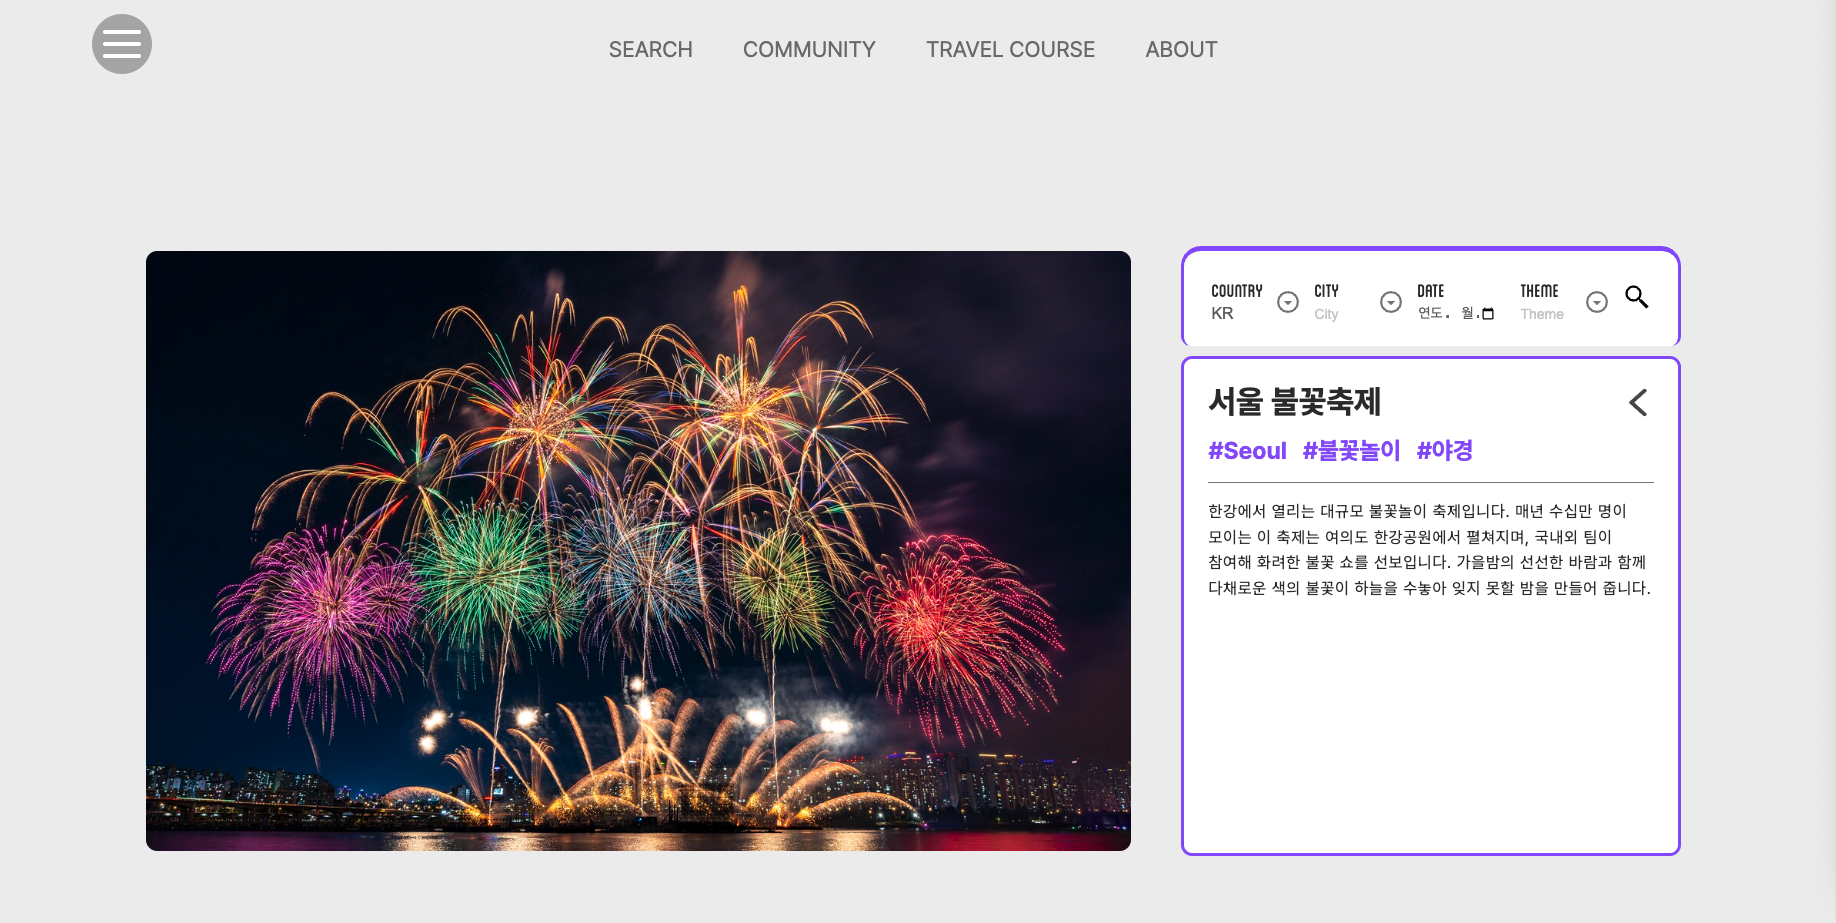
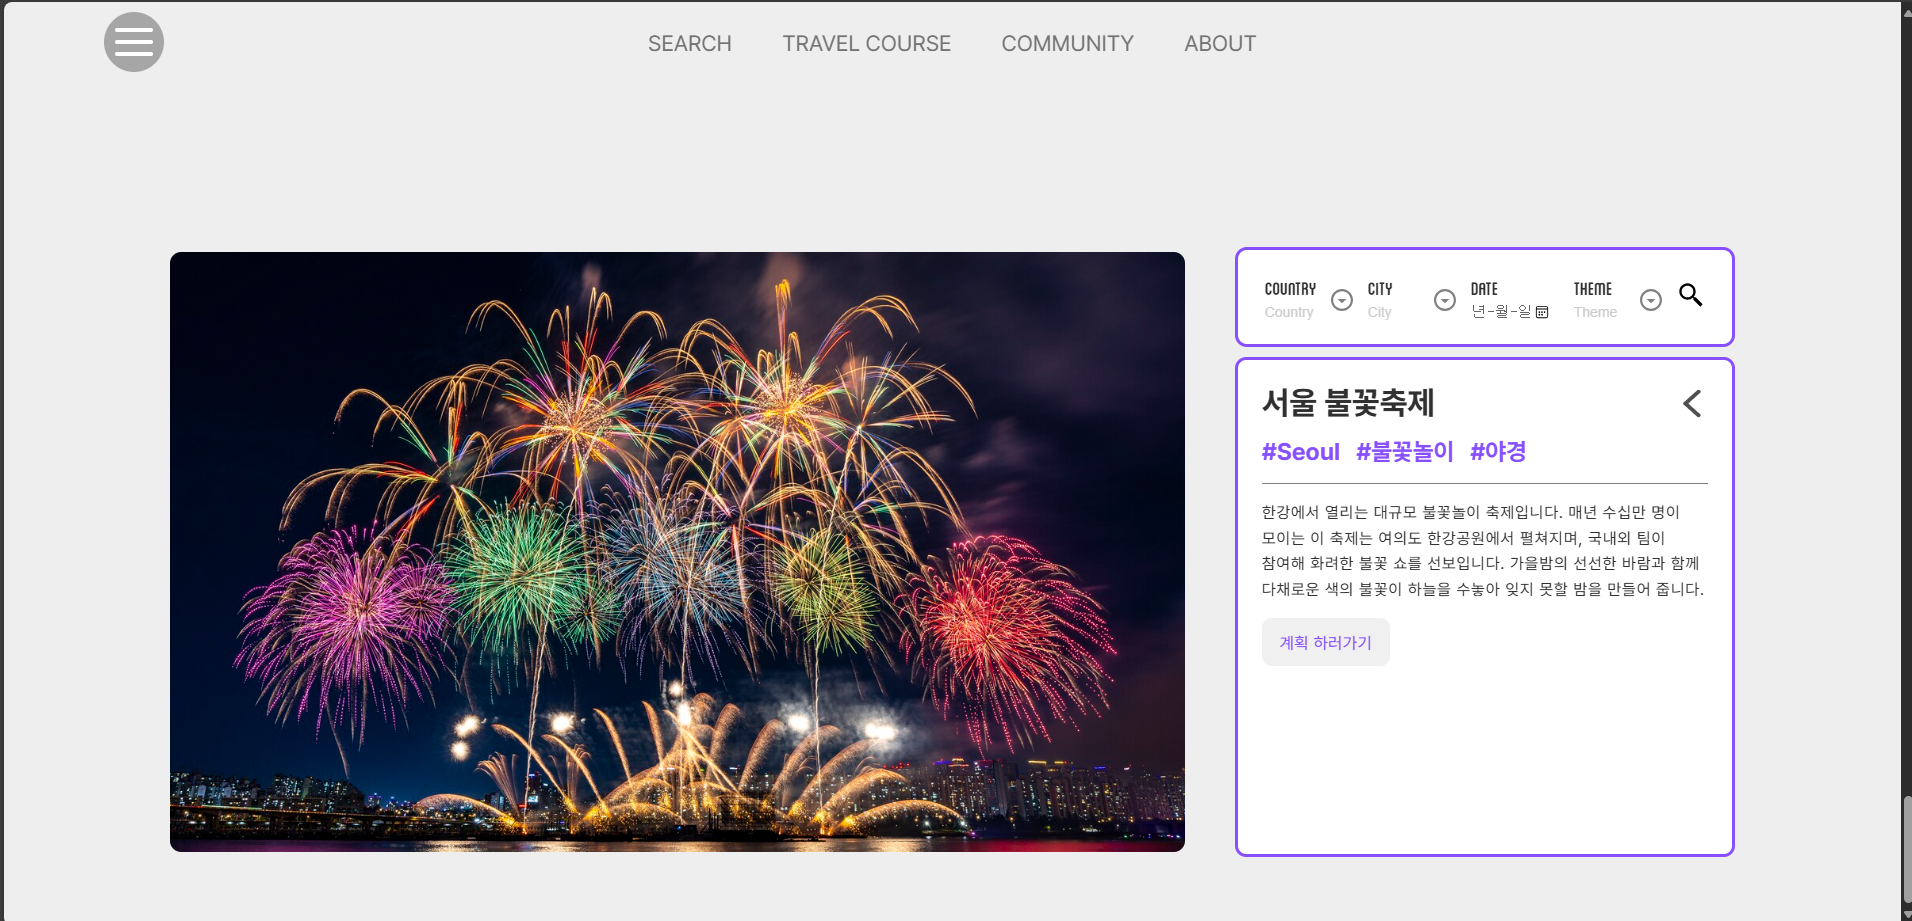
리드미 최종수정 uha

diff --git a/README.md b/README.md
@@ -34,30 +34,32 @@
 
 ---
 
-## 주요 기능
+## 💡 주요 기능
 - 전 세계 축제 검색
 - 지역별, 날짜별 필터링
 - 축제 위치에 따른 지도 마킹
 - 클릭시 축제에 대한 소개
+- 축제별 마크다운 플래너/메모 작성기능
 
 ---
 
-## 사용 방법
+## 🗒 사용 방법
 1. 스크롤을 따라 메인 검색 화면까지 이동하세요.
 2. 메인 화면에서 축제를 검색하세요.
 3. 지도에서 축제 위치를 확인하세요.
 4. 원하는 축제를 선택해 일정과 상세 정보를 확인하세요.
+5. Travel Course를 통해 가고싶은 축제에 대한 짧은 메모, 여행 계획 등을 세워보세요.
 
 
 ---
 
 ## 👩👩👧👧 참여 팀원
 
-- **효영공주(?)** : 데이터 생성 및 데이터 호출 함수 제작 / 축제 Info 카드 제작
-- **수진공주** : 지도 UI 제작
-- **유하공주** : 축제 정보 리스트 제작
-- **은정공주** : 페이지 레이아웃 제작 / UI/UX 플로우 설계
-- **은빈공주** : 축제 필터링 제작
+- **효영공주(?)** : 데이터 호출 함수 / 축제 Info 카드 / Travel Course
+- **수진공주** : 지도 UI 제작 / 로컬스토리지 기능구현 / API연동 : 데이터 저장 및 수정, 삭제 구현
+- **유하공주** : 축제 정보 리스트 제작 / 와이어 프레임 및 PPT 제작 
+- **은정공주** : 페이지 레이아웃 제작 / UI/UX 플로우 설계 / 마크다운 기능 구현
+- **은빈공주** : 축제 필터링 제작 / 기획서 제작
 
 ---
 
@@ -75,6 +77,8 @@
 📦 프로젝트 루트/
 ├── 📁 assets/              # 이미지, 영상 등 정적 리소스
 │   └── ...
+├── 📁 html/
+│   └── co
 ├── 📁 css/                 # CSS 파일
 │   ├── reset.css
 │   └── style.css
@@ -138,6 +142,25 @@
 
 7. `드롭다운 필터 UI`: 테마나 국가 선택 시 드롭다운이 자연스럽게 열리고 닫히는 인터랙션 구성으로 사용자 흐름 방해 없이 정보 탐색 가능.
 
+## ✅ TRAVEL COURSE 페이지 기능 및 UI
+
+- **기능**: `축제별 마크다운 플래너 작성 기능`, `메모 수정/삭제 기능`, `작성중인 메모 저장기능`,  `서버연동을 통한 데이터관리`, `마우스 인터랙션`,`애니메이션 처리`
+- **기술 포인트**:
+1. 축제 선택 기반 코스 기획
+	- 사용자는 축제 리스트에서 원하는 축제를 선택할 수 있음
+	- 선택된 축제 리스트를 바탕으로 여행 코스를 기획함
+
+2. 마크다운 메모 작성
+	- Travel Course 메뉴를 클릭하거나 "계획하러 가기" 버튼을 누르면 모달 팝업이 열림
+	- 모달에서는 마크다운 문법을 사용해 자유롭게 메모를 작성할 수 있음
+	- 실시간 미리보기 기능을 통해 작성 내용을 바로 확인할 수 있음
+
+3. 데이터 저장 및 상태 유지
+	- 작성한 메모는 로컬스토리지와 서버 API를 통해 저장
+	- 입력 중에 저장하지 않고 팝업창을 닫아도 임시 저장된 내용이 남아 있어, 다시 열었을 때 이어서 작성할 수 있음
+
+4. 선택된 축제 없을 시 자동 포커스
+	- 만약 선택된 축제 리스트가 없다면, 가장 처음의 축제 리스트에 자동으로 포커싱이 이동
 
 **스크린샷**:
 
@@ -146,7 +169,9 @@
 <img src="./assets/images/screen08.png" alt="screen" width="900" />
 <img src="./assets/images/screen09.png" alt="screen" width="900" />
 <img src="./assets/images/screen10.png" alt="screen" width="900" />
----
+<img src="./assets/images/screen11.png" alt="screen" width="900" />
+<img src="./assets/images/screen12.png" alt="screen" width="900" />
+<img src="./assets/images/screen13.png" alt="screen" width="900" />
 
 
 
@@ -166,4 +191,12 @@ npm run dev
 # index.html 파일을 브라우저로 열면 실행됩니다.
 
 
-정은빈
+---
+
+## 🔧 기획 자료
+
+- 기획서 : https://www.figma.com/proto/Ftpz763sQBmyPdlZUSQrfD/1%EC%B0%A8-%ED%94%84%EB%A1%9C%EC[…]25&t=idN3eJJfgKdQMrCq-1&scaling=min-zoom&content-scaling=fixed
+
+- Wire Frame : https://www.figma.com/design/zaeGb8RnM3VZvxpH1XR9zy/5%ED%8C%80-Festory-%EC%99%80%EC%9D%B4%EC%96%B4-%ED%94%84%EB%A0%88%EC%9E%84?node-id=1-427&t=QeLGi9Kn9DMH4atM-1
+
+- PPT : https://docs.google.com/presentation/d/1JKYCwfDmTad3NagyCBw7IJUSjCiovVX84UIFAZdWa3g/edit?usp=sharing
